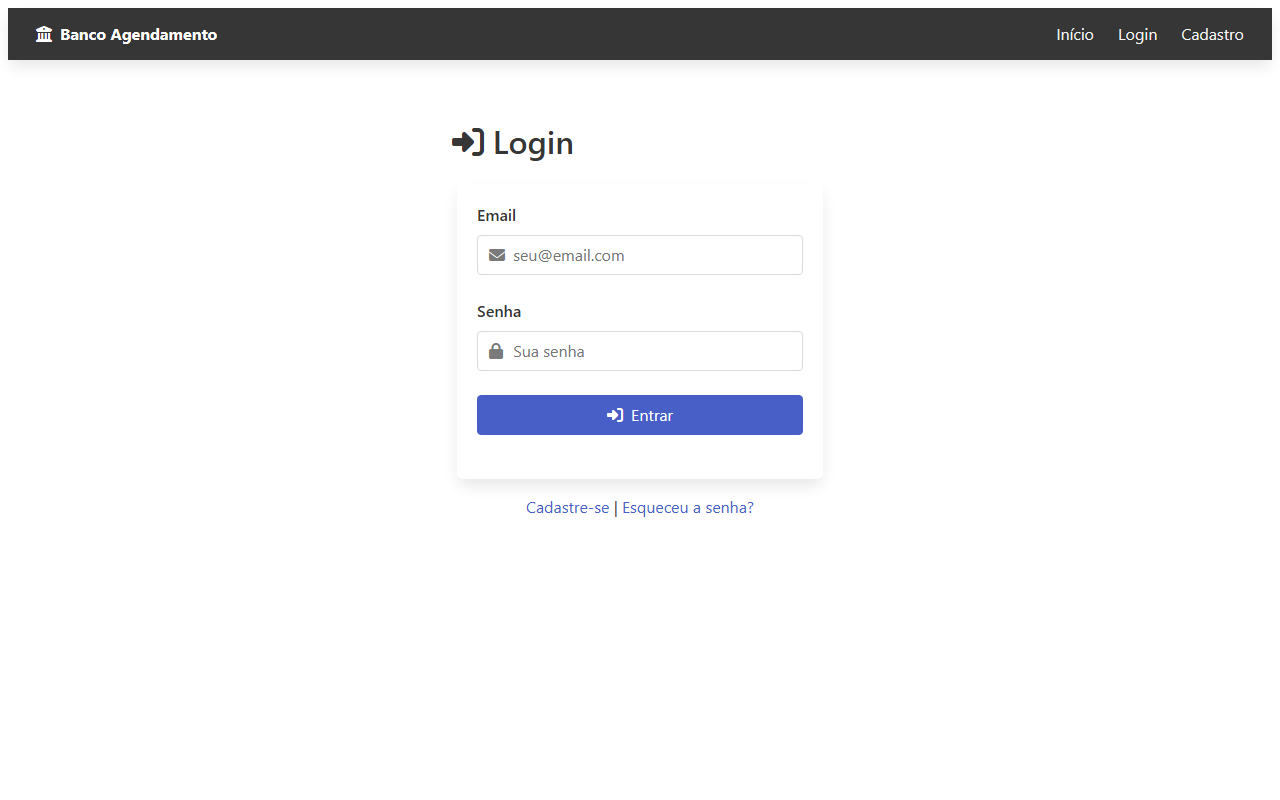
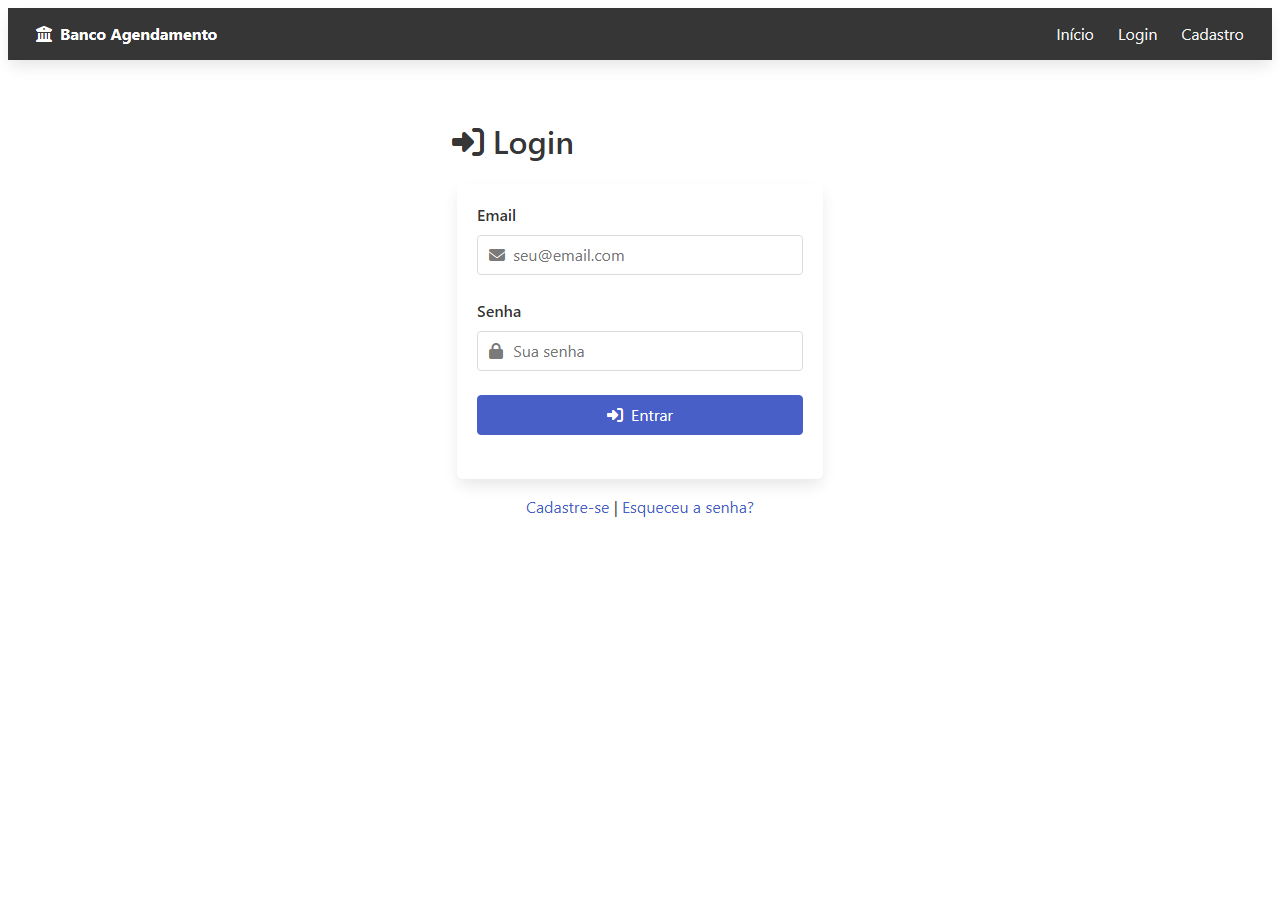
chore: atualiza screenshots e README com nomes em português

diff --git a/agenda-bancaria/README.md b/agenda-bancaria/README.md
@@ -129,10 +129,11 @@ git push            # Render auto-deploy
 |--------|---------|
 | Home | ![Home](public/screenshots/home.png) |
 | Login | ![Login](public/screenshots/login.png) |
-| Cadastro | ![Cadastro](public/screenshots/register.png) |
-| Recuperar Senha | ![Recuperar Senha](public/screenshots/forgot-password.png) |
-| Painel do Cliente | ![Painel](public/screenshots/dashboard.png) |
-| Agendar Serviço | ![Agendar](public/screenshots/schedule.png) |
-| Meus Agendamentos | ![Meus Agendamentos](public/screenshots/my-appointments.png) |
-| Painel Administrativo | ![Admin](public/screenshots/admin-dashboard.png) |
-| Gerenciar Clientes | ![Clientes](public/screenshots/gerenciar-clientes.png) |
+| Cadastro | ![Cadastro](public/screenshots/cadastro.png) |
+| Recuperar Senha | ![Recuperar Senha](public/screenshots/recuperar-senha.png) |
+| Painel do Cliente | ![Painel](public/screenshots/painel.png) |
+| Agendar Serviço | ![Agendar](public/screenshots/agendar.png) |
+| Meus Agendamentos | ![Meus Agendamentos](public/screenshots/meus-agendamentos.png) |
+| Perfil | ![Perfil](public/screenshots/perfil.png) |
+| Painel Administrativo | ![Admin](public/screenshots/admin-painel.png) |
+| Gerenciar Clientes | ![Clientes](public/screenshots/admin-clientes.png) |